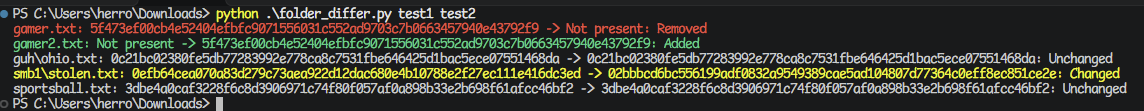
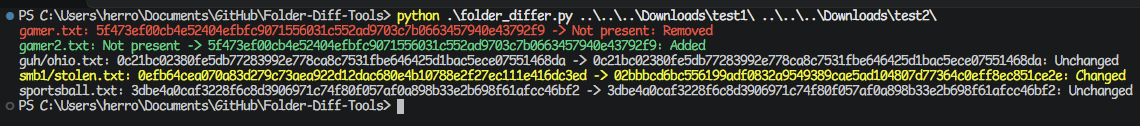
Update incorrect images

diff --git a/README.md b/README.md
@@ -16,7 +16,7 @@ Recursively compute the hashes of every file in a folder, outputting the file pa
 
 Usage:
 ```sh
-python folder_hasher.py folder1 output.tsv
+python folder_hasher.py folder output.tsv
 ```
 
 ![Folder Hasher usage and output](./docs_resources/folder_hasher.png)
